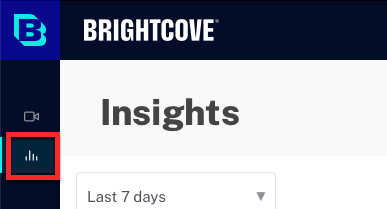
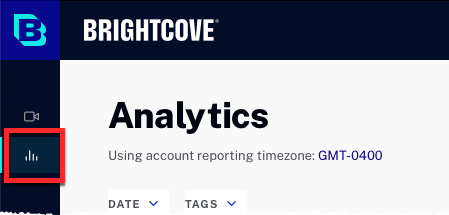
updates

diff --git a/analytics/reviewing-analytics.html b/analytics/reviewing-analytics.html
@@ -13,18 +13,18 @@ layout: staging
     <p>To view the Analytics page:</p>
     <ol class="bcls-tasklist-restart">
       <li>Login to Marketing Studio.</li>
-      <li>Click <strong>Analytics</strong> in the primary navigation.
+      <li>In the primary navigation, click <strong>Analytics</strong>.
         <figure class="bcls-figure"> <img class="bcls-image--no-border" alt="analytics navigation" src="/assets/images/analytics/primary-nav-analytics.png" /></figure>
       </li>
     </ol>
   </section>
   <section class="bcls-section">
     <h2 id="timespan">Selecting a time span</h2>
-    <p>Use the date selector dropdown at the top of the page to specify the time period for the report. You can select a fixed date range or select a custom date range. Note that when a single day is selected, the graphs will display by hour.</p>
-    <figure class="bcls-figure"> <img class="bcls-image--no-border" alt="date selector" src="/assets/images/analytics/custom-date-range.png" /></figure>
+    <p>Use the <strong>DATE</strong> selector dropdown at the top of the page to specify the time period for the report. Note that when a single day is selected, the graphs will display by hour.</p>
+    <figure class="bcls-figure"> <img class="bcls-image--no-border" alt="date selector" src="/assets/images/analytics/date-selector.png" /></figure>
     <div class="BCL-subsection">
       <h3>Reporting time zone</h3>
-      <p>Data in the Analytics module is shown using the account's reporting time zone. The time zone is displayed below the calendar control.</p>
+      <p>Data in the Analytics module is shown using the account's reporting time zone. The time zone is displayed at the top of the page.</p>
       <figure class="bcls-figure"><img class="bcls-image--no-border" alt="time zone" src="/assets/images/analytics/reporting-timezone.png" /></figure>
       <p>The reporting time zone is used to calculate day boundaries for reporting data. Changing the reporting time zone setting only affects data going forward, and changes are not applied retroactively. If you change this setting, you may see a flat spot or a spike in your data when looking at day boundaries where the change was applied. Updates to this setting may not take effect immediately, and analytics data may continue to refer to the old setting until the system processes the changes.</p>
       <p>The reporting time zone is configured as part of the Video Cloud account settings. For information on changing the reporting time zone, see <a href="https://studio.support.brightcove.com/admin/managing-account-settings.html#account_settings">Managing Account Settings</a>.</p>
@@ -36,13 +36,6 @@ layout: staging
     <figure class="bcls-figure"><img class="bcls-image--no-border" alt="Compare previous period" src="/assets/images/analytics/video-views-graph.png" /></figure>
     <p>The report details will be displayed below the graph.</p>
     <figure class="bcls-figure"><img class="bcls-image--no-border" alt="Compare previous period" src="/assets/images/analytics/report-details.png" /></figure>
-    <p>The dropdown list above the graph can be used to select another metric:</p>
-    <ul>
-      <li><strong>Video Views</strong> - The number of times a video started playing, recorded when the stream is started (does not include rewind or replay); it is not a measure of individual viewers; for videos with pre-roll ads, a view is not recorded until the video starts to play</li>
-      <li><strong>Viewed Minutes</strong> - Number of minutes the video was watched</li>
-      <li><strong>Play Rate</strong> - The percentage of videos that were loaded that were actually played (video views / video impressions)</li>
-      <li><strong>Avg. Completion Rate</strong> - The average percent watched per video view (calculated by adding all the percentage watched divided by the number of video views)</li>
-    </ul>
   </section>
   <section class="bcls-section">
     <h2 id="compare">Compare to previous period</h2>
